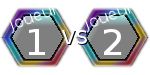
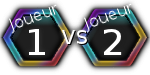
Finalisation de la fonction d'enregistrement de partie + retouches images

diff --git a/projet/src/menuprincipal.c b/projet/src/menuprincipal.c
@@ -5,14 +5,14 @@ int menuPrincipal(int* contreordinateur, int* niveauordinateur, int* plateau)
     /* ecran de jeu */
     Image* screen;
     /* images du menu */
-    Image *menu, *imageContreJoueur, *imageContreOrdi, *imageSelection, *imageBoutonJouer, *imageBoutonJouerSurvol, *imageBoutonPlus, *imageBoutonMoins;
+    Image *menu, *imageContreJoueur, *imageContreOrdi, *imageSelection, *imageBoutonJouer, *imageBoutonJouerSurvol, *imageBoutonPlus, *imageBoutonMoins, *imageOuvrir, *imageOuvrirSurvol;
     Image *imagePlateau[4], *imagePlateauSelectionne;
     /* images animees */
     Image *imageAnimeeRubis, *imageAnimeePerle;
 
     /* positions des images */
     Rectangle positionPlateau[4];
-    Rectangle positionMenu, positionContreJoueur, positionContreOrdi, positionBoutonJouer, positionNiveau, positionTexteNiveau, positionBoutonPlus, positionBoutonMoins;
+    Rectangle positionMenu, positionContreJoueur, positionContreOrdi, positionBoutonJouer, positionNiveau, positionTexteNiveau, positionBoutonPlus, positionBoutonMoins, positionOuvrir;
     Image *chiffres[10], *texte_niveau; int ich;
     Rectangle positionRubis, positionPerle, vecteurPerle, vecteurRubis;
 
@@ -24,6 +24,10 @@ int menuPrincipal(int* contreordinateur, int* niveauordinateur, int* plateau)
     int sourisy;
 
     int retour;
+
+    /* pour savoir si une partie est enregistrée */
+    int partieEnregistree;
+    FILE* fichier;
 
     /* boucle principale du programme */
     int done;
@@ -45,6 +49,22 @@ int menuPrincipal(int* contreordinateur, int* niveauordinateur, int* plateau)
 
     retour = 1; /* par défaut on accède au jeu après le menu */
     done = 0; /* sortie de boucle */
+
+    partieEnregistree = 0; /* par défaut : aucune partie */
+    fichier = 0;
+    fichier = fopen(CONFIGSAUVE,"r");
+    if(fichier!=0)
+    {
+        fclose(fichier);
+        fichier = 0;
+        fichier = fopen(PLATEAUSAUVE,"r");
+        if(fichier!=0)
+        {
+            partieEnregistree = 1;
+            fclose(fichier);
+            fichier = 0;
+        }
+    }
 
     /* INITIALISATIONS POUR L'AFFICHAGE */
 
@@ -123,6 +143,16 @@ int menuPrincipal(int* contreordinateur, int* niveauordinateur, int* plateau)
         vecteurPerle.y = 5;
         vecteurRubis.x = -5;
         vecteurRubis.y = 5;
+
+        if(partieEnregistree) /* on ne charge que si une partie est enregistrée */
+        {
+            imageOuvrir = IMG_Load(OUVRIR); afficheVerifChargement(imageOuvrir);
+            imageOuvrirSurvol = IMG_Load(OUVRIRSURVOL); afficheVerifChargement(imageOuvrirSurvol);
+            positionOuvrir.x = screen->w - imageOuvrir->w - 10;
+            positionOuvrir.y = screen->h - imageOuvrir->h - 10;
+            positionOuvrir.w = imageOuvrir->w;
+            positionOuvrir.h = imageOuvrir->h;
+        }
 
         imagePlateauSelectionne = afficheChargeImage(PLATEAU_SELECTIONNE_MENU); afficheVerifChargement(imagePlateau[0]);
 
@@ -234,7 +264,7 @@ int menuPrincipal(int* contreordinateur, int* niveauordinateur, int* plateau)
                         *contreordinateur = ((*contreordinateur + 1) % 2);
                     }
 
-                    if((afficheToucheAppuyee(&event) == T_HAUT || afficheToucheAppuyee(&event) == T_PN_PLUS) && *niveauordinateur<9 && *contreordinateur==1)
+                    if((afficheToucheAppuyee(&event) == T_HAUT || afficheToucheAppuyee(&event) == T_PN_PLUS) && *niveauordinateur<5 && *contreordinateur==1)
                     {
                         (*niveauordinateur)++;
                     }
@@ -283,7 +313,7 @@ int menuPrincipal(int* contreordinateur, int* niveauordinateur, int* plateau)
                     }
 
                     /* changer de niveau ordi */
-                    if(sourisDansRectangle(sourisx,sourisy,positionBoutonPlus) && *niveauordinateur<9 && *contreordinateur==1)
+                    if(sourisDansRectangle(sourisx,sourisy,positionBoutonPlus) && *niveauordinateur<5 && *contreordinateur==1)
                     {
                         (*niveauordinateur)++;
                     }
@@ -291,6 +321,22 @@ int menuPrincipal(int* contreordinateur, int* niveauordinateur, int* plateau)
                     {
                         (*niveauordinateur)--;
                     }
+
+                    /* on souhaite reprendre la partie enregistrée (double if pour être sur de na pas tester le 2eme condition si la permiere est 0 */
+                    if(partieEnregistree)
+                        if(sourisDansRectangle(sourisx,sourisy,positionOuvrir))
+                        {
+                            fichier = fopen(CONFIGSAUVE,"r");
+                            if(fscanf(fichier,"%d,%d",contreordinateur,niveauordinateur)==2)
+                            {
+                                *plateau = 0;
+                                done = 1;
+                            }
+                            else
+                            {
+                                printf("[!] Erreur de lecture du fichier de configuration.\n");
+                            }
+                        }
                 }
                 break;
             }
@@ -318,7 +364,7 @@ int menuPrincipal(int* contreordinateur, int* niveauordinateur, int* plateau)
         afficheImageRect(positionPlateau[2],imagePlateau[2],screen);
         afficheImageRect(positionPlateau[3],imagePlateau[3],screen);
 
-        if(*niveauordinateur<9 && *contreordinateur==1)
+        if(*niveauordinateur<5 && *contreordinateur==1)
             afficheImageRect(positionBoutonPlus,imageBoutonPlus,screen);
         if(*niveauordinateur>1 && *contreordinateur==1)
             afficheImageRect(positionBoutonMoins,imageBoutonMoins,screen);
@@ -328,6 +374,11 @@ int menuPrincipal(int* contreordinateur, int* niveauordinateur, int* plateau)
             afficheImageRect(positionBoutonJouer,imageBoutonJouerSurvol,screen);
         else
             afficheImageRect(positionBoutonJouer,imageBoutonJouer,screen);
+
+         if(sourisDansRectangle(sourisx,sourisy,positionOuvrir)==1)
+            afficheImageRect(positionOuvrir,imageOuvrirSurvol,screen);
+        else
+            afficheImageRect(positionOuvrir,imageOuvrir,screen);
 
         afficheImageRect(positionPerle,imageAnimeePerle,screen);
         afficheImageRect(positionRubis,imageAnimeeRubis,screen);
@@ -357,6 +408,11 @@ int menuPrincipal(int* contreordinateur, int* niveauordinateur, int* plateau)
     afficheFree(imageAnimeeRubis);
     afficheFree(imageAnimeePerle);
     afficheFree(texte_niveau);
+    if(partieEnregistree)
+    {
+        afficheFree(imageOuvrir);
+        afficheFree(imageOuvrirSurvol);
+    }
     for(ich=0;ich<10;ich++)
         afficheFree(chiffres[ich]);
     afficheFree(screen);

diff --git a/projet/src/ordinateur.c b/projet/src/ordinateur.c
@@ -23,10 +23,10 @@ void ordinateurJouer(Plateau* p, int joueur, int niv)
         printf("--ENTREE DANS LA FONCTION ordinateurJouer--\n");
     #endif
 
-    if(niv>=9) /* 9 étant le niveau max, on fixe une limite inatteignable */
-        niveau = 1000;
+    if(niv>=5) /* pas de limite, on regarde toutes les cases pour trouver la meilleure */
+        niveau = plateauGetCapacite(p) + 1;
     else /* pas de problème pour un niveau <1 : seule la première case jouable sera jouée */
-        niveau = niv + 1;
+        niveau = niv + 2;
 
     nbAVoler = 0;
     action = 0;
@@ -120,12 +120,29 @@ void ordinateurJouer(Plateau* p, int joueur, int niv)
                             pionAdversePerduTmp = nbAVolerTmp;
                             if(afficher_txt==1) printf("\t\ton peut s'y deplacer et voler %d pion(s) - adv perd : %d\n",nbAVolerTmp,pionAdversePerduTmp);
 
-                            /* il y a plus de pions à prendre en jouant ici*/
-                            if(((nbAVolerTmp>nbAVoler && niveau>compteur && (plateauNbPionsPerdu(p,ctmp,joueur)+plateauNbPionsAVolerAdjacent(p,ctmp,ctmp2,joueur))<=4)
+                            if(
+                                /* soit aucune case n'est encore trouvée */
+                                destination==0
                                 ||
-                               ((plateauNbPionEnnemi(p,ctmp2,joueur)-nbAVolerTmp)==0 && pionAdversePerduTmp>pionAdversePerdu && niveau>compteur && (plateauNbPionsPerdu(p,ctmp,joueur)+plateauNbPionsAVolerAdjacent(p,ctmp,ctmp2,joueur))<=4))
-                               || destination==0)
+                                (
+                                    /* soit l'on ne peut s'en faire voler que moins de 4 en déplaçant ce pion
+                                    (plateauNbPionsAVolerAdjacent prend en compte les pions que l'on aura après avoir joué) */
+                                    (plateauNbPionsPerdu(p,ctmp,joueur)+plateauNbPionsAVolerAdjacent(p,ctmp,ctmp2,joueur))<4
+                                    &&
+                                    (
+                                        /* ce que l'on trouve est mieux que ce que l'on avait trouvé précédemment */
+                                        (nbAVolerTmp>nbAVoler && niveau>compteur)
+                                        ||
+                                        ((plateauNbPionEnnemi(p,ctmp2,joueur)-nbAVolerTmp)==0 && pionAdversePerduTmp>pionAdversePerdu && niveau>compteur)
+                                    )
+
+                                )
+                            )
                             {
+                                if(afficher_txt==1)
+                                {
+                                    printf("\tSi l'on se déplace ici : on perd %d + %dn",plateauNbPionsPerdu(p,ctmp,joueur),plateauNbPionsAVolerAdjacent(p,ctmp,ctmp2,joueur));
+                                }
                                 source = ctmp;
                                 destination = ctmp2;
                                 action = 2; /* dupliquer */

diff --git a/projet/src/Plateau.h b/projet/src/Plateau.h
@@ -135,20 +135,25 @@ Case* plateauCaseSurvollee(int sx, int sy, const Plateau* p, int dim);
 
     @param [in,out] p : pointeur sur le plateau à remplir
     @param [in] filename : nom du fichier texte à charger
+    @param [out] joueur : le joueur qui commence
 
     @return rien
 */
 void plateauLireFichier(Plateau* p, const char filename[], int* joueur);
 
 
-/** \brief Sauvegarde la partie en cour dans un fichier texte
- *
- * \param [in,out] p : pointeur sur le plateau à remplir
+/**
+    @brief <b>Sauvegarde la partie en cours dans un fichier texte</b>.<br />
+    Pour enregistrer une partie et la reprendre plus tard.
 
- * \return rien
- *
+    @param [in] p : pointeur sur le Plateau à enregistrer
+    @param [in] qui_joue : quel joueur à la main
+    @param [in] contreordi : savoir si la partie est contre l'ordi (1) ou un joueur (0)
+    @param [in] niveauordi : savoir quel est le niveau de l'ordinateur
+
+    @return rien
  */
-void plateauEcrireFichier(Plateau* p,int qui_joue);
+void plateauEcrireFichier(Plateau* p, int qui_joue, int contreordi, int niveauordi);
 
 /**
     @brief <b>Nombre de possibilités de déplacement pour un pion.</b><br />

diff --git a/projet/src/jeu.c b/projet/src/jeu.c
@@ -119,6 +119,7 @@ int Jouer(const int contreordinateur, const int niveauordinateur, const int plat
         plateauInit(&jeu,0);
         switch (plateau)
         {
+            case 0: plateauLireFichier(&jeu,PLATEAUSAUVE,&qui_joue); break;
             case 1: plateauLireFichier(&jeu,PLATEAU1,&qui_joue); break;
             case 2: plateauLireFichier(&jeu,PLATEAU2,&qui_joue); break;
             case 3: plateauLireFichier(&jeu,PLATEAU3,&qui_joue); break;
@@ -349,7 +350,7 @@ int Jouer(const int contreordinateur, const int niveauordinateur, const int plat
                         if(sourisDansRectangle(sourisx,sourisy,xySauver)==1)
                         {
                             /* on sauvegarde le plateau */
-                            plateauEcrireFichier(&jeu,qui_joue);
+                            plateauEcrireFichier(&jeu,qui_joue,contreordinateur,niveauordinateur);
                         }
 
                     } /* fin de détection du clic pour le jeu */

diff --git a/projet/src/parametres.h b/projet/src/parametres.h
@@ -56,6 +56,11 @@
 /** <b>Chemin vers l'image du bouton d'enregistrement survollé</b> */
 	#define SAUVERSURVOL CHREL"data/images/sauversurvol.png"
 
+/** <b>Chemin vers l'image du bouton de reprise de partie</b> */
+	#define OUVRIR CHREL"data/images/ouvrir.png"
+/** <b>Chemin vers l'image du bouton survollé de reprise de partie</b> */
+	#define OUVRIRSURVOL CHREL"data/images/ouvrirsurvol.png"
+
 /** <b>Chemin vers une icone pour le jeu</b> */
 	#define ICONE CHREL"data/images/icone.ico"
 
@@ -87,6 +92,8 @@
 	#define PLATEAUTEST CHREL"data/PlateauTest.txt"
 /** <b>Chemin vers le fichier pour enregistrer</b> */
 	#define PLATEAUSAUVE CHREL"data/Plateau_enregistre.txt"
+/** <b>Chemin vers le fichier pour enregistrer la configuration de la partie</b> */
+	#define CONFIGSAUVE CHREL"data/Configuration_enregistree.txt"
 
 /** <b>Chemin vers l'image du menu : bouton [+] (pour augmenter la difficulte de l'ordinateur)</b> */
 	#define BOUTONPLUS CHREL"data/images/plus.png"

diff --git a/projet/src/Plateau.c b/projet/src/Plateau.c
@@ -169,21 +169,28 @@ void plateauLireFichier(Plateau* p, const char filename[], int* joueur)
     fclose(f);
 }
 
-void plateauEcrireFichier(Plateau* p,int qui_joue)
+void plateauEcrireFichier(Plateau* p, int qui_joue, int contreordi, int niveauordi)
 {
     FILE* file;
     Case* ctmp;
-	int ecriture,i;
-    file = fopen(PLATEAUSAUVE, "w");
+	int i;
+
+	/* ouvrir le fichier pour enregistrer le plateau */
+    file = fopen(PLATEAUSAUVE, "w+");
     fprintf(file,"%d,%d",p->capacite,qui_joue);
     for(i=0;i<p->capacite;i++)
     {
         ctmp = plateauGetCaseI(p,i);
         fprintf(file,"\n%d,%d,%d",caseGetX(ctmp),caseGetY(ctmp),caseGetJoueur(ctmp));
     }
+    fclose(file);
 
+    /* ouvrir le fichier pour enregistrer le configuration de la partie */
+    file = fopen(CONFIGSAUVE,"w+");
+    fprintf(file,"%d,%d",contreordi,niveauordi);
     fclose(file);
 }
+
 int plateauNbPossibilites(const Plateau* p,Case* c)
 {
     Case* ctmp;

diff --git a/projet/src/main.c b/projet/src/main.c
@@ -35,7 +35,7 @@ int main(int argc, char *argv[])
 
     /* paramètres de jeu par défaut */
     contreordinateur = 1;
-    niveauordinateur = 5;
+    niveauordinateur = 3;
     plateau = 1;
 
     while(menuPrincipal(&contreordinateur, &niveauordinateur, &plateau)==1)
